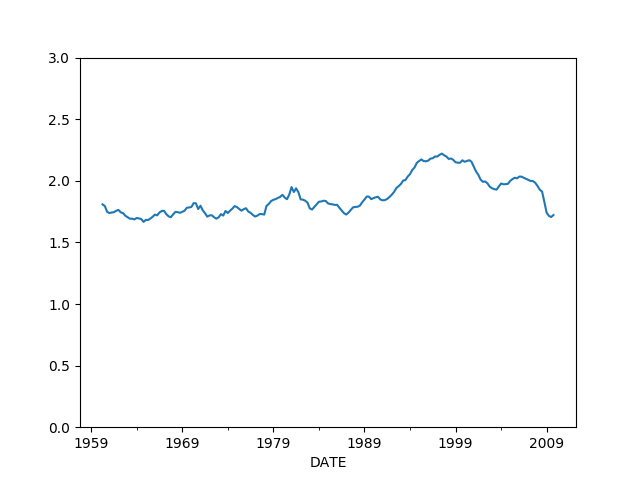
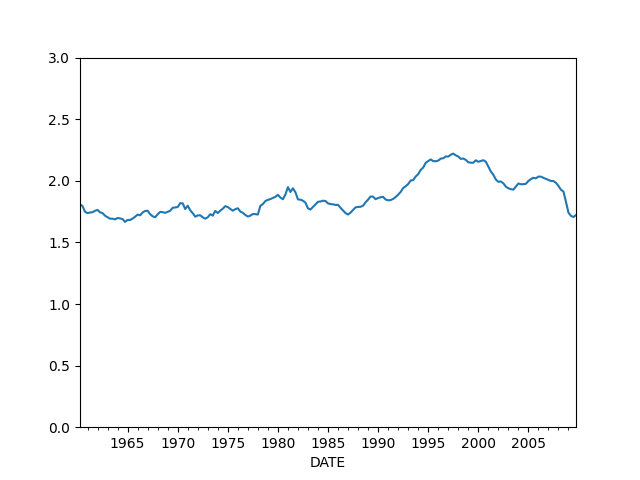
-

diff --git a/tser/tser_100_macro/genel_makroekonomi.html b/tser/tser_100_macro/genel_makroekonomi.html
@@ -261,8 +261,8 @@ class="sourceCode python"><code class="sourceCode python"><span id="cb1-1"><a hr
 <span id="cb1-2"><a href="#cb1-2" aria-hidden="true" tabindex="-1"></a>df <span class="op">=</span> pd.read_csv(<span class="st">&#39;money.csv&#39;</span>,parse_dates<span class="op">=</span>[<span class="st">&#39;DATE&#39;</span>])</span>
 <span id="cb1-3"><a href="#cb1-3" aria-hidden="true" tabindex="-1"></a>df <span class="op">=</span> df.set_index(<span class="st">&#39;DATE&#39;</span>)</span>
 <span id="cb1-4"><a href="#cb1-4" aria-hidden="true" tabindex="-1"></a>df <span class="op">=</span> df[[<span class="st">&#39;m2cd&#39;</span>,<span class="st">&#39;gdp&#39;</span>]]</span>
-<span id="cb1-5"><a href="#cb1-5" aria-hidden="true" tabindex="-1"></a>df <span class="op">=</span> df.ix[df.index <span class="op">&gt;</span> <span class="st">&#39;1960-01-01&#39;</span>]</span>
-<span id="cb1-6"><a href="#cb1-6" aria-hidden="true" tabindex="-1"></a>df <span class="op">=</span> df.ix[df.index <span class="op">&lt;</span> <span class="st">&#39;2010-01-01&#39;</span>]</span>
+<span id="cb1-5"><a href="#cb1-5" aria-hidden="true" tabindex="-1"></a>df <span class="op">=</span> df.iloc[df.index <span class="op">&gt;</span> <span class="st">&#39;1960-01-01&#39;</span>]</span>
+<span id="cb1-6"><a href="#cb1-6" aria-hidden="true" tabindex="-1"></a>df <span class="op">=</span> df.iloc[df.index <span class="op">&lt;</span> <span class="st">&#39;2010-01-01&#39;</span>]</span>
 <span id="cb1-7"><a href="#cb1-7" aria-hidden="true" tabindex="-1"></a>df <span class="op">=</span> df.dropna(axis<span class="op">=</span><span class="dv">0</span>)</span>
 <span id="cb1-8"><a href="#cb1-8" aria-hidden="true" tabindex="-1"></a>df[<span class="st">&#39;vel1&#39;</span>] <span class="op">=</span> df.gdp <span class="op">/</span> df.m2cd</span>
 <span id="cb1-9"><a href="#cb1-9" aria-hidden="true" tabindex="-1"></a>df.vel1.plot(ylim<span class="op">=</span>[<span class="fl">0.0</span>,<span class="fl">3.0</span>])</span>
@@ -303,10 +303,10 @@ class="math inline">\(M\)</span> üzerinden hızı grafiklersek,</li>
 <div class="sourceCode" id="cb2"><pre
 class="sourceCode python"><code class="sourceCode python"><span id="cb2-1"><a href="#cb2-1" aria-hidden="true" tabindex="-1"></a>df3 <span class="op">=</span> pd.read_csv(<span class="st">&#39;money.csv&#39;</span>,parse_dates<span class="op">=</span>[<span class="st">&#39;DATE&#39;</span>])</span>
 <span id="cb2-2"><a href="#cb2-2" aria-hidden="true" tabindex="-1"></a>df3 <span class="op">=</span> df3.set_index(<span class="st">&#39;DATE&#39;</span>)</span>
-<span id="cb2-3"><a href="#cb2-3" aria-hidden="true" tabindex="-1"></a>df3 <span class="op">=</span> df3.ix[df3.index <span class="op">&gt;</span> <span class="st">&#39;1960-01-01&#39;</span>]</span>
-<span id="cb2-4"><a href="#cb2-4" aria-hidden="true" tabindex="-1"></a>df3 <span class="op">=</span> df3.ix[df3.index <span class="op">&lt;</span> <span class="st">&#39;2010-01-01&#39;</span>]</span>
+<span id="cb2-3"><a href="#cb2-3" aria-hidden="true" tabindex="-1"></a>df3 <span class="op">=</span> df3.iloc[df3.index <span class="op">&gt;</span> <span class="st">&#39;1960-01-01&#39;</span>]</span>
+<span id="cb2-4"><a href="#cb2-4" aria-hidden="true" tabindex="-1"></a>df3 <span class="op">=</span> df3.iloc[df3.index <span class="op">&lt;</span> <span class="st">&#39;2010-01-01&#39;</span>]</span>
 <span id="cb2-5"><a href="#cb2-5" aria-hidden="true" tabindex="-1"></a>df3 <span class="op">=</span> df3[[<span class="st">&#39;m2cd&#39;</span>,<span class="st">&#39;gdp&#39;</span>,<span class="st">&#39;nonfincred&#39;</span>,<span class="st">&#39;realest&#39;</span>]]</span>
-<span id="cb2-6"><a href="#cb2-6" aria-hidden="true" tabindex="-1"></a>df3 <span class="op">=</span> df3.resample(<span class="st">&quot;A&quot;</span>, how<span class="op">=</span><span class="st">&#39;sum&#39;</span>) </span>
+<span id="cb2-6"><a href="#cb2-6" aria-hidden="true" tabindex="-1"></a>df3 <span class="op">=</span> df3.resample(<span class="st">&quot;A&quot;</span>).<span class="bu">sum</span>()</span>
 <span id="cb2-7"><a href="#cb2-7" aria-hidden="true" tabindex="-1"></a>df3[<span class="st">&#39;vel2&#39;</span>] <span class="op">=</span> df3.gdp <span class="op">/</span> (df3.nonfincred<span class="op">-</span>df3.realest)</span>
 <span id="cb2-8"><a href="#cb2-8" aria-hidden="true" tabindex="-1"></a>df3.vel2.plot(ylim<span class="op">=</span>[<span class="fl">0.0</span>,<span class="fl">3.0</span>])</span>
 <span id="cb2-9"><a href="#cb2-9" aria-hidden="true" tabindex="-1"></a>plt.savefig(<span class="st">&#39;tser_macro_05.png&#39;</span>)</span></code></pre></div>
@@ -381,7 +381,7 @@ değil. Altta etkinin korelasyonuna bakıyoruz,</p>
 class="sourceCode python"><code class="sourceCode python"><span id="cb5-1"><a href="#cb5-1" aria-hidden="true" tabindex="-1"></a><span class="im">import</span> scipy.stats <span class="im">as</span> stats</span>
 <span id="cb5-2"><a href="#cb5-2" aria-hidden="true" tabindex="-1"></a>df[<span class="st">&#39;gdpinc1&#39;</span>] <span class="op">=</span> df.gdpinc.shift(<span class="dv">1</span>)</span>
 <span id="cb5-3"><a href="#cb5-3" aria-hidden="true" tabindex="-1"></a>df2 <span class="op">=</span> df.dropna(axis<span class="op">=</span><span class="dv">0</span>)</span>
-<span id="cb5-4"><a href="#cb5-4" aria-hidden="true" tabindex="-1"></a><span class="bu">print</span> stats.pearsonr(df2.shortrate, df2.gdpinc1)</span></code></pre></div>
+<span id="cb5-4"><a href="#cb5-4" aria-hidden="true" tabindex="-1"></a><span class="bu">print</span> (stats.pearsonr(df2.shortrate, df2.gdpinc1))</span></code></pre></div>
 <pre><code>(0.75710287451587455, 1.1393168782627738e-09)</code></pre>
 <p>Etkinin korelasyonu pozitif, yani büyüme faiz arttırımına, küçülme
 faiz düşürülmesine sebep oluyor.</p>
@@ -526,7 +526,7 @@ class="sourceCode python"><code class="sourceCode python"><span id="cb7-1"><a hr
 <span id="cb7-18"><a href="#cb7-18" aria-hidden="true" tabindex="-1"></a></span>
 <span id="cb7-19"><a href="#cb7-19" aria-hidden="true" tabindex="-1"></a><span class="im">import</span> statsmodels.formula.api <span class="im">as</span> smf</span>
 <span id="cb7-20"><a href="#cb7-20" aria-hidden="true" tabindex="-1"></a>results <span class="op">=</span> smf.ols(<span class="st">&#39;lhs ~ dgt +  dgdpt1 + dcrt1  + dcrt2 &#39;</span>, data<span class="op">=</span>df).fit()</span>
-<span id="cb7-21"><a href="#cb7-21" aria-hidden="true" tabindex="-1"></a><span class="bu">print</span> results.summary()</span></code></pre></div>
+<span id="cb7-21"><a href="#cb7-21" aria-hidden="true" tabindex="-1"></a><span class="bu">print</span> (results.summary())</span></code></pre></div>
 <pre><code>                            OLS Regression Results                            
 ==============================================================================
 Dep. Variable:                    lhs   R-squared:                       0.106

diff --git a/tser/tser_100_macro/tser_100_macro.html b/tser/tser_100_macro/tser_100_macro.html
@@ -261,8 +261,8 @@ class="sourceCode python"><code class="sourceCode python"><span id="cb1-1"><a hr
 <span id="cb1-2"><a href="#cb1-2" aria-hidden="true" tabindex="-1"></a>df <span class="op">=</span> pd.read_csv(<span class="st">&#39;money.csv&#39;</span>,parse_dates<span class="op">=</span>[<span class="st">&#39;DATE&#39;</span>])</span>
 <span id="cb1-3"><a href="#cb1-3" aria-hidden="true" tabindex="-1"></a>df <span class="op">=</span> df.set_index(<span class="st">&#39;DATE&#39;</span>)</span>
 <span id="cb1-4"><a href="#cb1-4" aria-hidden="true" tabindex="-1"></a>df <span class="op">=</span> df[[<span class="st">&#39;m2cd&#39;</span>,<span class="st">&#39;gdp&#39;</span>]]</span>
-<span id="cb1-5"><a href="#cb1-5" aria-hidden="true" tabindex="-1"></a>df <span class="op">=</span> df.ix[df.index <span class="op">&gt;</span> <span class="st">&#39;1960-01-01&#39;</span>]</span>
-<span id="cb1-6"><a href="#cb1-6" aria-hidden="true" tabindex="-1"></a>df <span class="op">=</span> df.ix[df.index <span class="op">&lt;</span> <span class="st">&#39;2010-01-01&#39;</span>]</span>
+<span id="cb1-5"><a href="#cb1-5" aria-hidden="true" tabindex="-1"></a>df <span class="op">=</span> df.iloc[df.index <span class="op">&gt;</span> <span class="st">&#39;1960-01-01&#39;</span>]</span>
+<span id="cb1-6"><a href="#cb1-6" aria-hidden="true" tabindex="-1"></a>df <span class="op">=</span> df.iloc[df.index <span class="op">&lt;</span> <span class="st">&#39;2010-01-01&#39;</span>]</span>
 <span id="cb1-7"><a href="#cb1-7" aria-hidden="true" tabindex="-1"></a>df <span class="op">=</span> df.dropna(axis<span class="op">=</span><span class="dv">0</span>)</span>
 <span id="cb1-8"><a href="#cb1-8" aria-hidden="true" tabindex="-1"></a>df[<span class="st">&#39;vel1&#39;</span>] <span class="op">=</span> df.gdp <span class="op">/</span> df.m2cd</span>
 <span id="cb1-9"><a href="#cb1-9" aria-hidden="true" tabindex="-1"></a>df.vel1.plot(ylim<span class="op">=</span>[<span class="fl">0.0</span>,<span class="fl">3.0</span>])</span>
@@ -303,10 +303,10 @@ class="math inline">\(M\)</span> üzerinden hızı grafiklersek,</li>
 <div class="sourceCode" id="cb2"><pre
 class="sourceCode python"><code class="sourceCode python"><span id="cb2-1"><a href="#cb2-1" aria-hidden="true" tabindex="-1"></a>df3 <span class="op">=</span> pd.read_csv(<span class="st">&#39;money.csv&#39;</span>,parse_dates<span class="op">=</span>[<span class="st">&#39;DATE&#39;</span>])</span>
 <span id="cb2-2"><a href="#cb2-2" aria-hidden="true" tabindex="-1"></a>df3 <span class="op">=</span> df3.set_index(<span class="st">&#39;DATE&#39;</span>)</span>
-<span id="cb2-3"><a href="#cb2-3" aria-hidden="true" tabindex="-1"></a>df3 <span class="op">=</span> df3.ix[df3.index <span class="op">&gt;</span> <span class="st">&#39;1960-01-01&#39;</span>]</span>
-<span id="cb2-4"><a href="#cb2-4" aria-hidden="true" tabindex="-1"></a>df3 <span class="op">=</span> df3.ix[df3.index <span class="op">&lt;</span> <span class="st">&#39;2010-01-01&#39;</span>]</span>
+<span id="cb2-3"><a href="#cb2-3" aria-hidden="true" tabindex="-1"></a>df3 <span class="op">=</span> df3.iloc[df3.index <span class="op">&gt;</span> <span class="st">&#39;1960-01-01&#39;</span>]</span>
+<span id="cb2-4"><a href="#cb2-4" aria-hidden="true" tabindex="-1"></a>df3 <span class="op">=</span> df3.iloc[df3.index <span class="op">&lt;</span> <span class="st">&#39;2010-01-01&#39;</span>]</span>
 <span id="cb2-5"><a href="#cb2-5" aria-hidden="true" tabindex="-1"></a>df3 <span class="op">=</span> df3[[<span class="st">&#39;m2cd&#39;</span>,<span class="st">&#39;gdp&#39;</span>,<span class="st">&#39;nonfincred&#39;</span>,<span class="st">&#39;realest&#39;</span>]]</span>
-<span id="cb2-6"><a href="#cb2-6" aria-hidden="true" tabindex="-1"></a>df3 <span class="op">=</span> df3.resample(<span class="st">&quot;A&quot;</span>, how<span class="op">=</span><span class="st">&#39;sum&#39;</span>) </span>
+<span id="cb2-6"><a href="#cb2-6" aria-hidden="true" tabindex="-1"></a>df3 <span class="op">=</span> df3.resample(<span class="st">&quot;A&quot;</span>).<span class="bu">sum</span>()</span>
 <span id="cb2-7"><a href="#cb2-7" aria-hidden="true" tabindex="-1"></a>df3[<span class="st">&#39;vel2&#39;</span>] <span class="op">=</span> df3.gdp <span class="op">/</span> (df3.nonfincred<span class="op">-</span>df3.realest)</span>
 <span id="cb2-8"><a href="#cb2-8" aria-hidden="true" tabindex="-1"></a>df3.vel2.plot(ylim<span class="op">=</span>[<span class="fl">0.0</span>,<span class="fl">3.0</span>])</span>
 <span id="cb2-9"><a href="#cb2-9" aria-hidden="true" tabindex="-1"></a>plt.savefig(<span class="st">&#39;tser_macro_05.png&#39;</span>)</span></code></pre></div>
@@ -381,7 +381,7 @@ değil. Altta etkinin korelasyonuna bakıyoruz,</p>
 class="sourceCode python"><code class="sourceCode python"><span id="cb5-1"><a href="#cb5-1" aria-hidden="true" tabindex="-1"></a><span class="im">import</span> scipy.stats <span class="im">as</span> stats</span>
 <span id="cb5-2"><a href="#cb5-2" aria-hidden="true" tabindex="-1"></a>df[<span class="st">&#39;gdpinc1&#39;</span>] <span class="op">=</span> df.gdpinc.shift(<span class="dv">1</span>)</span>
 <span id="cb5-3"><a href="#cb5-3" aria-hidden="true" tabindex="-1"></a>df2 <span class="op">=</span> df.dropna(axis<span class="op">=</span><span class="dv">0</span>)</span>
-<span id="cb5-4"><a href="#cb5-4" aria-hidden="true" tabindex="-1"></a><span class="bu">print</span> stats.pearsonr(df2.shortrate, df2.gdpinc1)</span></code></pre></div>
+<span id="cb5-4"><a href="#cb5-4" aria-hidden="true" tabindex="-1"></a><span class="bu">print</span> (stats.pearsonr(df2.shortrate, df2.gdpinc1))</span></code></pre></div>
 <pre><code>(0.75710287451587455, 1.1393168782627738e-09)</code></pre>
 <p>Etkinin korelasyonu pozitif, yani büyüme faiz arttırımına, küçülme
 faiz düşürülmesine sebep oluyor.</p>
@@ -526,7 +526,7 @@ class="sourceCode python"><code class="sourceCode python"><span id="cb7-1"><a hr
 <span id="cb7-18"><a href="#cb7-18" aria-hidden="true" tabindex="-1"></a></span>
 <span id="cb7-19"><a href="#cb7-19" aria-hidden="true" tabindex="-1"></a><span class="im">import</span> statsmodels.formula.api <span class="im">as</span> smf</span>
 <span id="cb7-20"><a href="#cb7-20" aria-hidden="true" tabindex="-1"></a>results <span class="op">=</span> smf.ols(<span class="st">&#39;lhs ~ dgt +  dgdpt1 + dcrt1  + dcrt2 &#39;</span>, data<span class="op">=</span>df).fit()</span>
-<span id="cb7-21"><a href="#cb7-21" aria-hidden="true" tabindex="-1"></a><span class="bu">print</span> results.summary()</span></code></pre></div>
+<span id="cb7-21"><a href="#cb7-21" aria-hidden="true" tabindex="-1"></a><span class="bu">print</span> (results.summary())</span></code></pre></div>
 <pre><code>                            OLS Regression Results                            
 ==============================================================================
 Dep. Variable:                    lhs   R-squared:                       0.106

diff --git a/tser/tser_115_bop/kur_fiyati_modellemesi_para_dengesi.html b/tser/tser_115_bop/kur_fiyati_modellemesi_para_dengesi.html
@@ -160,8 +160,8 @@ de sermaye (ve finans) hesabını içerir. Toplamı sıfır olmalıdır.</p>
 ödemeler dengesi var. Bu verilerin ham hali 2000 senesine bakalım.</p>
 <div class="sourceCode" id="cb1"><pre
 class="sourceCode python"><code class="sourceCode python"><span id="cb1-1"><a href="#cb1-1" aria-hidden="true" tabindex="-1"></a><span class="im">import</span> pandas <span class="im">as</span> pd, csv</span>
-<span id="cb1-2"><a href="#cb1-2" aria-hidden="true" tabindex="-1"></a>df <span class="op">=</span> pd.read_csv(<span class="st">&#39;greece_acct.csv&#39;</span>,sep<span class="op">=</span><span class="st">&#39;\s+&#39;</span>,index_col<span class="op">=</span><span class="dv">0</span>)</span>
-<span id="cb1-3"><a href="#cb1-3" aria-hidden="true" tabindex="-1"></a><span class="bu">print</span> (df.T[[<span class="dv">2000</span>]])</span></code></pre></div>
+<span id="cb1-2"><a href="#cb1-2" aria-hidden="true" tabindex="-1"></a>df <span class="op">=</span> pd.read_csv(<span class="st">&#39;greece_acct.csv&#39;</span>,sep<span class="op">=</span><span class="st">&#39;</span><span class="ch">\\</span><span class="st">s+&#39;</span>,index_col<span class="op">=</span><span class="dv">0</span>)</span>
+<span id="cb1-3"><a href="#cb1-3" aria-hidden="true" tabindex="-1"></a><span class="bu">print</span> ((df.T[[<span class="dv">2000</span>]]))</span></code></pre></div>
 <pre><code>Year                              2000
 Goods                         -21927.5
 Services                        8711.1
@@ -212,7 +212,7 @@ class="sourceCode python"><code class="sourceCode python"><span id="cb3-1"><a hr
 <span id="cb3-21"><a href="#cb3-21" aria-hidden="true" tabindex="-1"></a>df[<span class="st">&#39;Balancing Item&#39;</span>] <span class="op">=</span> <span class="op">-</span><span class="dv">1</span><span class="op">*</span>(df[<span class="st">&#39;Current Account&#39;</span>] <span class="op">+</span> <span class="op">\</span></span>
 <span id="cb3-22"><a href="#cb3-22" aria-hidden="true" tabindex="-1"></a>                           df[<span class="st">&#39;Capital Transfers&#39;</span>] <span class="op">+</span> <span class="op">\</span></span>
 <span id="cb3-23"><a href="#cb3-23" aria-hidden="true" tabindex="-1"></a>                           df[<span class="st">&#39;Financial Account&#39;</span>])</span>
-<span id="cb3-24"><a href="#cb3-24" aria-hidden="true" tabindex="-1"></a><span class="bu">print</span> (df.T[[<span class="dv">2000</span>,<span class="dv">2001</span>,<span class="dv">2002</span>,<span class="dv">2003</span>]])</span></code></pre></div>
+<span id="cb3-24"><a href="#cb3-24" aria-hidden="true" tabindex="-1"></a><span class="bu">print</span> ((df.T[[<span class="dv">2000</span>,<span class="dv">2001</span>,<span class="dv">2002</span>,<span class="dv">2003</span>]]))</span></code></pre></div>
 <pre><code>Year                                      2000     2001     2002     2003
 Goods                                 -21927.5 -21610.9 -22708.7 -22643.5
 Services                                8711.1   9150.0  10755.4  11506.5
@@ -236,7 +236,7 @@ Other Investments                      -4856.8  -9794.6   1998.6  -7623.9
 Financial Account                       8906.2   6934.8  10310.5   9883.7
 Balancing Item                          -533.8   1234.5  -1739.3    141.0</code></pre>
 <div class="sourceCode" id="cb5"><pre
-class="sourceCode python"><code class="sourceCode python"><span id="cb5-1"><a href="#cb5-1" aria-hidden="true" tabindex="-1"></a><span class="bu">print</span> (df.T[[<span class="dv">2004</span>,<span class="dv">2005</span>,<span class="dv">2006</span>,<span class="dv">2007</span>]])</span></code></pre></div>
+class="sourceCode python"><code class="sourceCode python"><span id="cb5-1"><a href="#cb5-1" aria-hidden="true" tabindex="-1"></a><span class="bu">print</span> ((df.T[[<span class="dv">2004</span>,<span class="dv">2005</span>,<span class="dv">2006</span>,<span class="dv">2007</span>]]))</span></code></pre></div>
 <pre><code>Year                                      2004     2005     2006     2007
 Goods                                 -25435.8 -27558.9 -35286.3 -41499.2
 Services                               15467.0  15391.1  15337.1  16591.7
@@ -260,7 +260,7 @@ Other Investments                      -9104.1   5914.0  11518.5  12740.7
 Financial Account                       8098.0  12606.5  20454.3  27570.2
 Balancing Item                           233.1     88.4    263.1    699.7</code></pre>
 <div class="sourceCode" id="cb7"><pre
-class="sourceCode python"><code class="sourceCode python"><span id="cb7-1"><a href="#cb7-1" aria-hidden="true" tabindex="-1"></a><span class="bu">print</span> (df.T[[<span class="dv">2008</span>,<span class="dv">2009</span>,<span class="dv">2010</span>]])</span></code></pre></div>
+class="sourceCode python"><code class="sourceCode python"><span id="cb7-1"><a href="#cb7-1" aria-hidden="true" tabindex="-1"></a><span class="bu">print</span> ((df.T[[<span class="dv">2008</span>,<span class="dv">2009</span>,<span class="dv">2010</span>]]))</span></code></pre></div>
 <pre><code>Year                                      2008     2009     2010
 Goods                                 -44048.8 -30767.3 -28279.6
 Services                               17135.6  12640.2  13248.5
@@ -342,7 +342,7 @@ class="sourceCode python"><code class="sourceCode python"><span id="cb10-1"><a h
 <span id="cb10-15"><a href="#cb10-15" aria-hidden="true" tabindex="-1"></a></span>
 <span id="cb10-16"><a href="#cb10-16" aria-hidden="true" tabindex="-1"></a>df2[<span class="st">&#39;Sum&#39;</span>] <span class="op">=</span> df2[<span class="st">&#39;All_Accounts&#39;</span>] <span class="op">-</span> df2[<span class="st">&quot;RESERVE_ASSETS&quot;</span>]</span>
 <span id="cb10-17"><a href="#cb10-17" aria-hidden="true" tabindex="-1"></a></span>
-<span id="cb10-18"><a href="#cb10-18" aria-hidden="true" tabindex="-1"></a><span class="bu">print</span> df2[[<span class="st">&#39;All_Accounts&#39;</span>,<span class="st">&#39;Sum&#39;</span>]]</span></code></pre></div>
+<span id="cb10-18"><a href="#cb10-18" aria-hidden="true" tabindex="-1"></a><span class="bu">print</span> (df2[[<span class="st">&#39;All_Accounts&#39;</span>,<span class="st">&#39;Sum&#39;</span>]])</span></code></pre></div>
 <pre><code>             All_Accounts                  Sum
 1999                 5.21                -0.00
 2000                -3.00                 0.00

diff --git a/tser/tser_115_bop/tser_115_bop.html b/tser/tser_115_bop/tser_115_bop.html
@@ -160,8 +160,8 @@ de sermaye (ve finans) hesabını içerir. Toplamı sıfır olmalıdır.</p>
 ödemeler dengesi var. Bu verilerin ham hali 2000 senesine bakalım.</p>
 <div class="sourceCode" id="cb1"><pre
 class="sourceCode python"><code class="sourceCode python"><span id="cb1-1"><a href="#cb1-1" aria-hidden="true" tabindex="-1"></a><span class="im">import</span> pandas <span class="im">as</span> pd, csv</span>
-<span id="cb1-2"><a href="#cb1-2" aria-hidden="true" tabindex="-1"></a>df <span class="op">=</span> pd.read_csv(<span class="st">&#39;greece_acct.csv&#39;</span>,sep<span class="op">=</span><span class="st">&#39;\s+&#39;</span>,index_col<span class="op">=</span><span class="dv">0</span>)</span>
-<span id="cb1-3"><a href="#cb1-3" aria-hidden="true" tabindex="-1"></a><span class="bu">print</span> (df.T[[<span class="dv">2000</span>]])</span></code></pre></div>
+<span id="cb1-2"><a href="#cb1-2" aria-hidden="true" tabindex="-1"></a>df <span class="op">=</span> pd.read_csv(<span class="st">&#39;greece_acct.csv&#39;</span>,sep<span class="op">=</span><span class="st">&#39;</span><span class="ch">\\</span><span class="st">s+&#39;</span>,index_col<span class="op">=</span><span class="dv">0</span>)</span>
+<span id="cb1-3"><a href="#cb1-3" aria-hidden="true" tabindex="-1"></a><span class="bu">print</span> ((df.T[[<span class="dv">2000</span>]]))</span></code></pre></div>
 <pre><code>Year                              2000
 Goods                         -21927.5
 Services                        8711.1
@@ -212,7 +212,7 @@ class="sourceCode python"><code class="sourceCode python"><span id="cb3-1"><a hr
 <span id="cb3-21"><a href="#cb3-21" aria-hidden="true" tabindex="-1"></a>df[<span class="st">&#39;Balancing Item&#39;</span>] <span class="op">=</span> <span class="op">-</span><span class="dv">1</span><span class="op">*</span>(df[<span class="st">&#39;Current Account&#39;</span>] <span class="op">+</span> <span class="op">\</span></span>
 <span id="cb3-22"><a href="#cb3-22" aria-hidden="true" tabindex="-1"></a>                           df[<span class="st">&#39;Capital Transfers&#39;</span>] <span class="op">+</span> <span class="op">\</span></span>
 <span id="cb3-23"><a href="#cb3-23" aria-hidden="true" tabindex="-1"></a>                           df[<span class="st">&#39;Financial Account&#39;</span>])</span>
-<span id="cb3-24"><a href="#cb3-24" aria-hidden="true" tabindex="-1"></a><span class="bu">print</span> (df.T[[<span class="dv">2000</span>,<span class="dv">2001</span>,<span class="dv">2002</span>,<span class="dv">2003</span>]])</span></code></pre></div>
+<span id="cb3-24"><a href="#cb3-24" aria-hidden="true" tabindex="-1"></a><span class="bu">print</span> ((df.T[[<span class="dv">2000</span>,<span class="dv">2001</span>,<span class="dv">2002</span>,<span class="dv">2003</span>]]))</span></code></pre></div>
 <pre><code>Year                                      2000     2001     2002     2003
 Goods                                 -21927.5 -21610.9 -22708.7 -22643.5
 Services                                8711.1   9150.0  10755.4  11506.5
@@ -236,7 +236,7 @@ Other Investments                      -4856.8  -9794.6   1998.6  -7623.9
 Financial Account                       8906.2   6934.8  10310.5   9883.7
 Balancing Item                          -533.8   1234.5  -1739.3    141.0</code></pre>
 <div class="sourceCode" id="cb5"><pre
-class="sourceCode python"><code class="sourceCode python"><span id="cb5-1"><a href="#cb5-1" aria-hidden="true" tabindex="-1"></a><span class="bu">print</span> (df.T[[<span class="dv">2004</span>,<span class="dv">2005</span>,<span class="dv">2006</span>,<span class="dv">2007</span>]])</span></code></pre></div>
+class="sourceCode python"><code class="sourceCode python"><span id="cb5-1"><a href="#cb5-1" aria-hidden="true" tabindex="-1"></a><span class="bu">print</span> ((df.T[[<span class="dv">2004</span>,<span class="dv">2005</span>,<span class="dv">2006</span>,<span class="dv">2007</span>]]))</span></code></pre></div>
 <pre><code>Year                                      2004     2005     2006     2007
 Goods                                 -25435.8 -27558.9 -35286.3 -41499.2
 Services                               15467.0  15391.1  15337.1  16591.7
@@ -260,7 +260,7 @@ Other Investments                      -9104.1   5914.0  11518.5  12740.7
 Financial Account                       8098.0  12606.5  20454.3  27570.2
 Balancing Item                           233.1     88.4    263.1    699.7</code></pre>
 <div class="sourceCode" id="cb7"><pre
-class="sourceCode python"><code class="sourceCode python"><span id="cb7-1"><a href="#cb7-1" aria-hidden="true" tabindex="-1"></a><span class="bu">print</span> (df.T[[<span class="dv">2008</span>,<span class="dv">2009</span>,<span class="dv">2010</span>]])</span></code></pre></div>
+class="sourceCode python"><code class="sourceCode python"><span id="cb7-1"><a href="#cb7-1" aria-hidden="true" tabindex="-1"></a><span class="bu">print</span> ((df.T[[<span class="dv">2008</span>,<span class="dv">2009</span>,<span class="dv">2010</span>]]))</span></code></pre></div>
 <pre><code>Year                                      2008     2009     2010
 Goods                                 -44048.8 -30767.3 -28279.6
 Services                               17135.6  12640.2  13248.5
@@ -342,7 +342,7 @@ class="sourceCode python"><code class="sourceCode python"><span id="cb10-1"><a h
 <span id="cb10-15"><a href="#cb10-15" aria-hidden="true" tabindex="-1"></a></span>
 <span id="cb10-16"><a href="#cb10-16" aria-hidden="true" tabindex="-1"></a>df2[<span class="st">&#39;Sum&#39;</span>] <span class="op">=</span> df2[<span class="st">&#39;All_Accounts&#39;</span>] <span class="op">-</span> df2[<span class="st">&quot;RESERVE_ASSETS&quot;</span>]</span>
 <span id="cb10-17"><a href="#cb10-17" aria-hidden="true" tabindex="-1"></a></span>
-<span id="cb10-18"><a href="#cb10-18" aria-hidden="true" tabindex="-1"></a><span class="bu">print</span> df2[[<span class="st">&#39;All_Accounts&#39;</span>,<span class="st">&#39;Sum&#39;</span>]]</span></code></pre></div>
+<span id="cb10-18"><a href="#cb10-18" aria-hidden="true" tabindex="-1"></a><span class="bu">print</span> (df2[[<span class="st">&#39;All_Accounts&#39;</span>,<span class="st">&#39;Sum&#39;</span>]])</span></code></pre></div>
 <pre><code>             All_Accounts                  Sum
 1999                 5.21                -0.00
 2000                -3.00                 0.00
